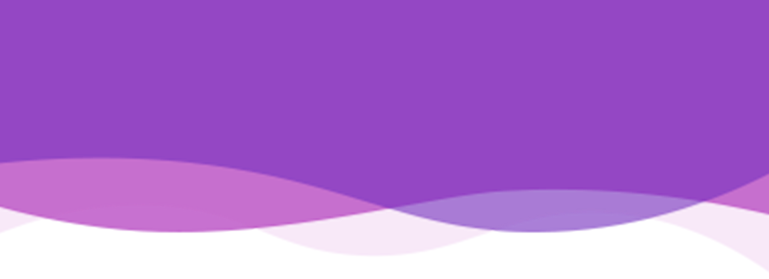
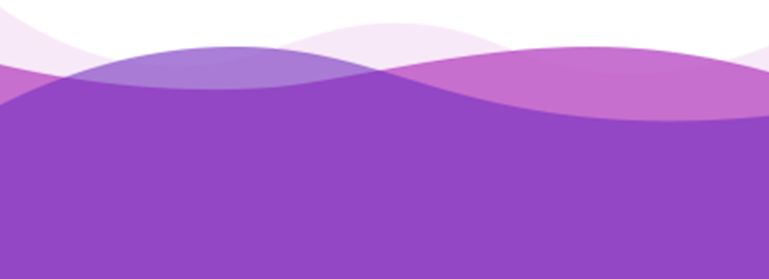
html + css for the first page

diff --git a/src/css/style.css b/src/css/style.css
@@ -35,8 +35,16 @@ div {
 .logo-wrapper {
   padding: 60px 0 110px 0;
 }
-.logo-wrapper img{
+.logo-wrapper img {
   width: 260px;
+}
+.auth-motivation {
+  display: none;
+  font-size: 25px;
+  letter-spacing: 1px;
+  color: #390e84;
+  font-family: "Candara";
+  text-align: center;
 }
 .auth-buttons {
   padding-bottom: 214px;
@@ -60,6 +68,53 @@ div {
   font-family: "Candara";
 }
 
-.loginBtn::first-letter {
+.loginBtn::first-letter,
+.auth-motivation::first-letter {
   text-transform: capitalize;
+}
+
+@media screen and (min-width: 768px) {
+  .container {
+    width: 768px;
+  }
+  .auth {
+    min-height: 1030px;
+    background-image: url(../images/tablet/back-widewave.png);
+  }
+  .logo-wrapper {
+    padding: 100px 0 0 0;
+  }
+  .logo-wrapper img {
+    width: 590px;
+  }
+  .auth-motivation {
+    display: block;
+    padding-bottom: 110px;
+    font-size: 25px;
+    letter-spacing: 1px;
+    color: #390e84;
+    font-family: "Candara";
+    text-align: center;
+  }
+  .auth-buttons {
+    padding-bottom: 0;
+  }
+  .loginBtn:not(:last-child) {
+    margin-bottom: 30px;
+  }
+  .loginBtn {
+    width: 366px;
+    height: 65px;
+    border-radius: 19px;
+    background-color: rgba(234, 231, 242, 0.5019607843137255);
+    border: 1px solid #390e84;
+    font-size: 30px;
+    letter-spacing: 1px;
+    color: #390e84;
+    font-weight: bold;
+    font-family: "Candara";
+  }
+}
+
+@media screen and (min-width: 1920px) {
 }

diff --git a/src/index.html b/src/index.html
@@ -19,6 +19,8 @@
       <div class="logo-wrapper">
         <img src="./images/logo.png" alt="logo">
       </div>
+      <p class="auth-motivation">мотивируй себя
+        <br> на достижение ваших целей.</p>
       <div class="auth-buttons">
         <button class="loginBtn">вход</button>
         <button class="loginBtn">создать аккаунт</button>
